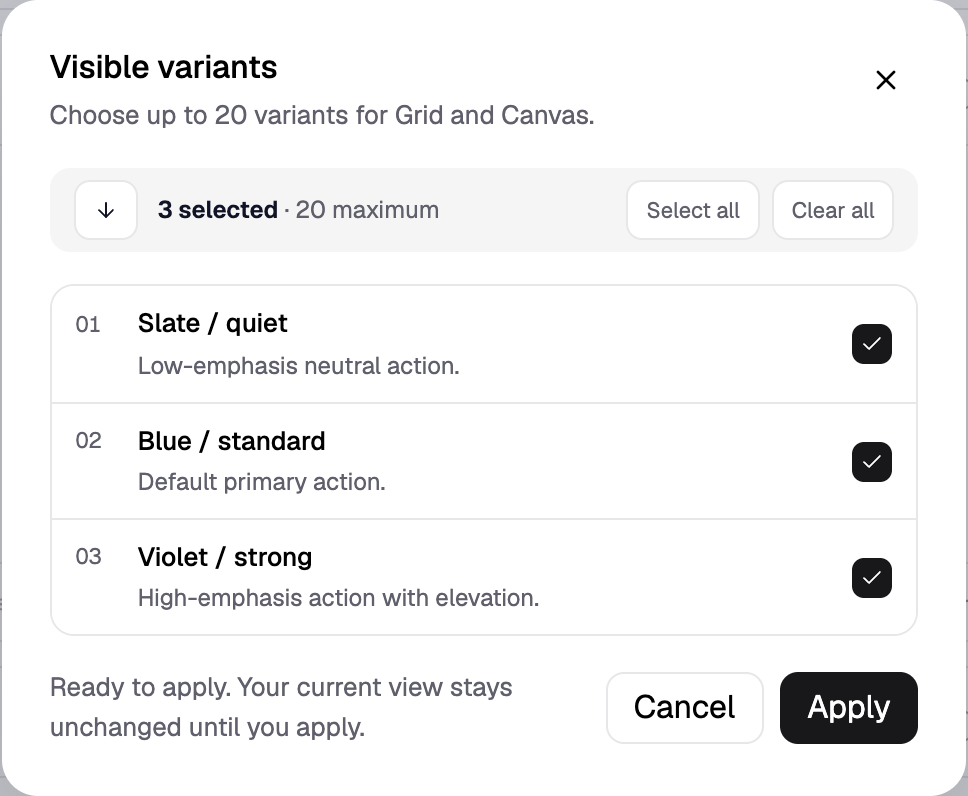
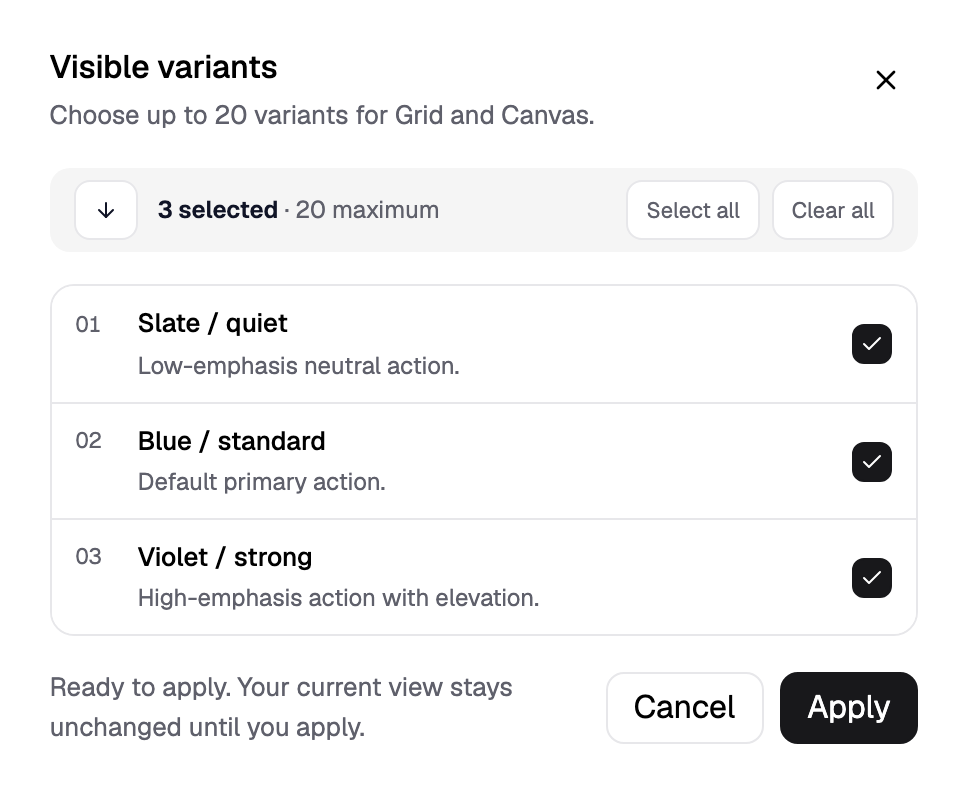
Recapture landing dialogs with transparent corners (#19)
## What changed

- **`scripts/capture-marketing.mjs`**: the capture now hides everything
except the dialog surface, makes backdrops and the page background
transparent, drops the dialog's shadow and border, and saves with
`omitBackground`. The search capture targets `.vh-selector-menu` instead
of the outer `<dialog>`.
- **`public/brand/variant-chooser.png` and `workspace-search.png`**:
recaptured. Both now have an alpha channel with transparent rounded
corners.
- **`landing.tsx`**: the search image height goes from 1028 to 1024,
because the capture no longer includes the 1px border.
- **`varianthub-core`**: command-menu chip icons (`FolderTree`, `Tags`)
are sized in `varianthub.css` (`.vh-selector-inline-chip svg`) instead
of with Tailwind's `h-3 w-3`.

## Why

On the landing page, the "Choose what you compare" and "Find the next
thing to work on" images showed grey in their rounded corners and a thin
grey strip along the edges. The cause was the dialog backdrop, plus a
sub-pixel sliver of it caused by fractional bounding boxes. The landing
already applies its own `drop-shadow`, so the images should contain only
the dialog surface.

The search image was also out of date: the search icon showed at the
start of the field, while the component has it at the end.

When I recaptured, the chip icons in the ⌘K menu rendered at 24px in the
live app too, not only in the image. `varianthub-core` ships its own
stylesheet, so its markup can't rely on Tailwind utilities from the
[…]

Changed region(s): [[0.9607, 0.0, 1.0, 1.0], [0.0, 0.9648, 0.031, 1.0], [0.0, 0.0, 0.031, 0.0302]]

diff --git a/packages/core/src/ComponentSelector.tsx b/packages/core/src/ComponentSelector.tsx
@@ -443,13 +443,13 @@ export function ComponentSelector({
                       <span className="vh-selector-option-chips">
                         {(component.categories ?? []).slice(0, 2).map((category) => (
                           <span key={`${component.key}-${category}`} className="vh-selector-inline-chip">
-                            <FolderTree className="h-3 w-3" />
+                            <FolderTree aria-hidden="true" />
                             {category}
                           </span>
                         ))}
                         {(component.tags ?? []).slice(0, 2).map((tag) => (
                           <span key={`${component.key}-${tag}`} className="vh-selector-inline-chip">
-                            <Tags className="h-3 w-3" />
+                            <Tags aria-hidden="true" />
                             {tag}
                           </span>
                         ))}

diff --git a/src/components/marketing/landing.tsx b/src/components/marketing/landing.tsx
@@ -782,7 +782,7 @@ function Organization({ openPlayground }: { openPlayground: () => void }) {
                 <Image
                   src="/brand/workspace-search.png"
                   width={1016}
-                  height={1028}
+                  height={1024}
                   alt="Workspace search with recent items and favorites"
                 />
               </button>

diff --git a/packages/core/src/styles/varianthub.css b/packages/core/src/styles/varianthub.css
@@ -674,6 +674,12 @@
   background: var(--vh-color-surface);
 }
 
+.vh-selector-inline-chip svg {
+  width: 0.75rem;
+  height: 0.75rem;
+  flex: 0 0 auto;
+}
+
 .vh-selector-option-count {
   flex: 0 0 auto;
   white-space: nowrap;
